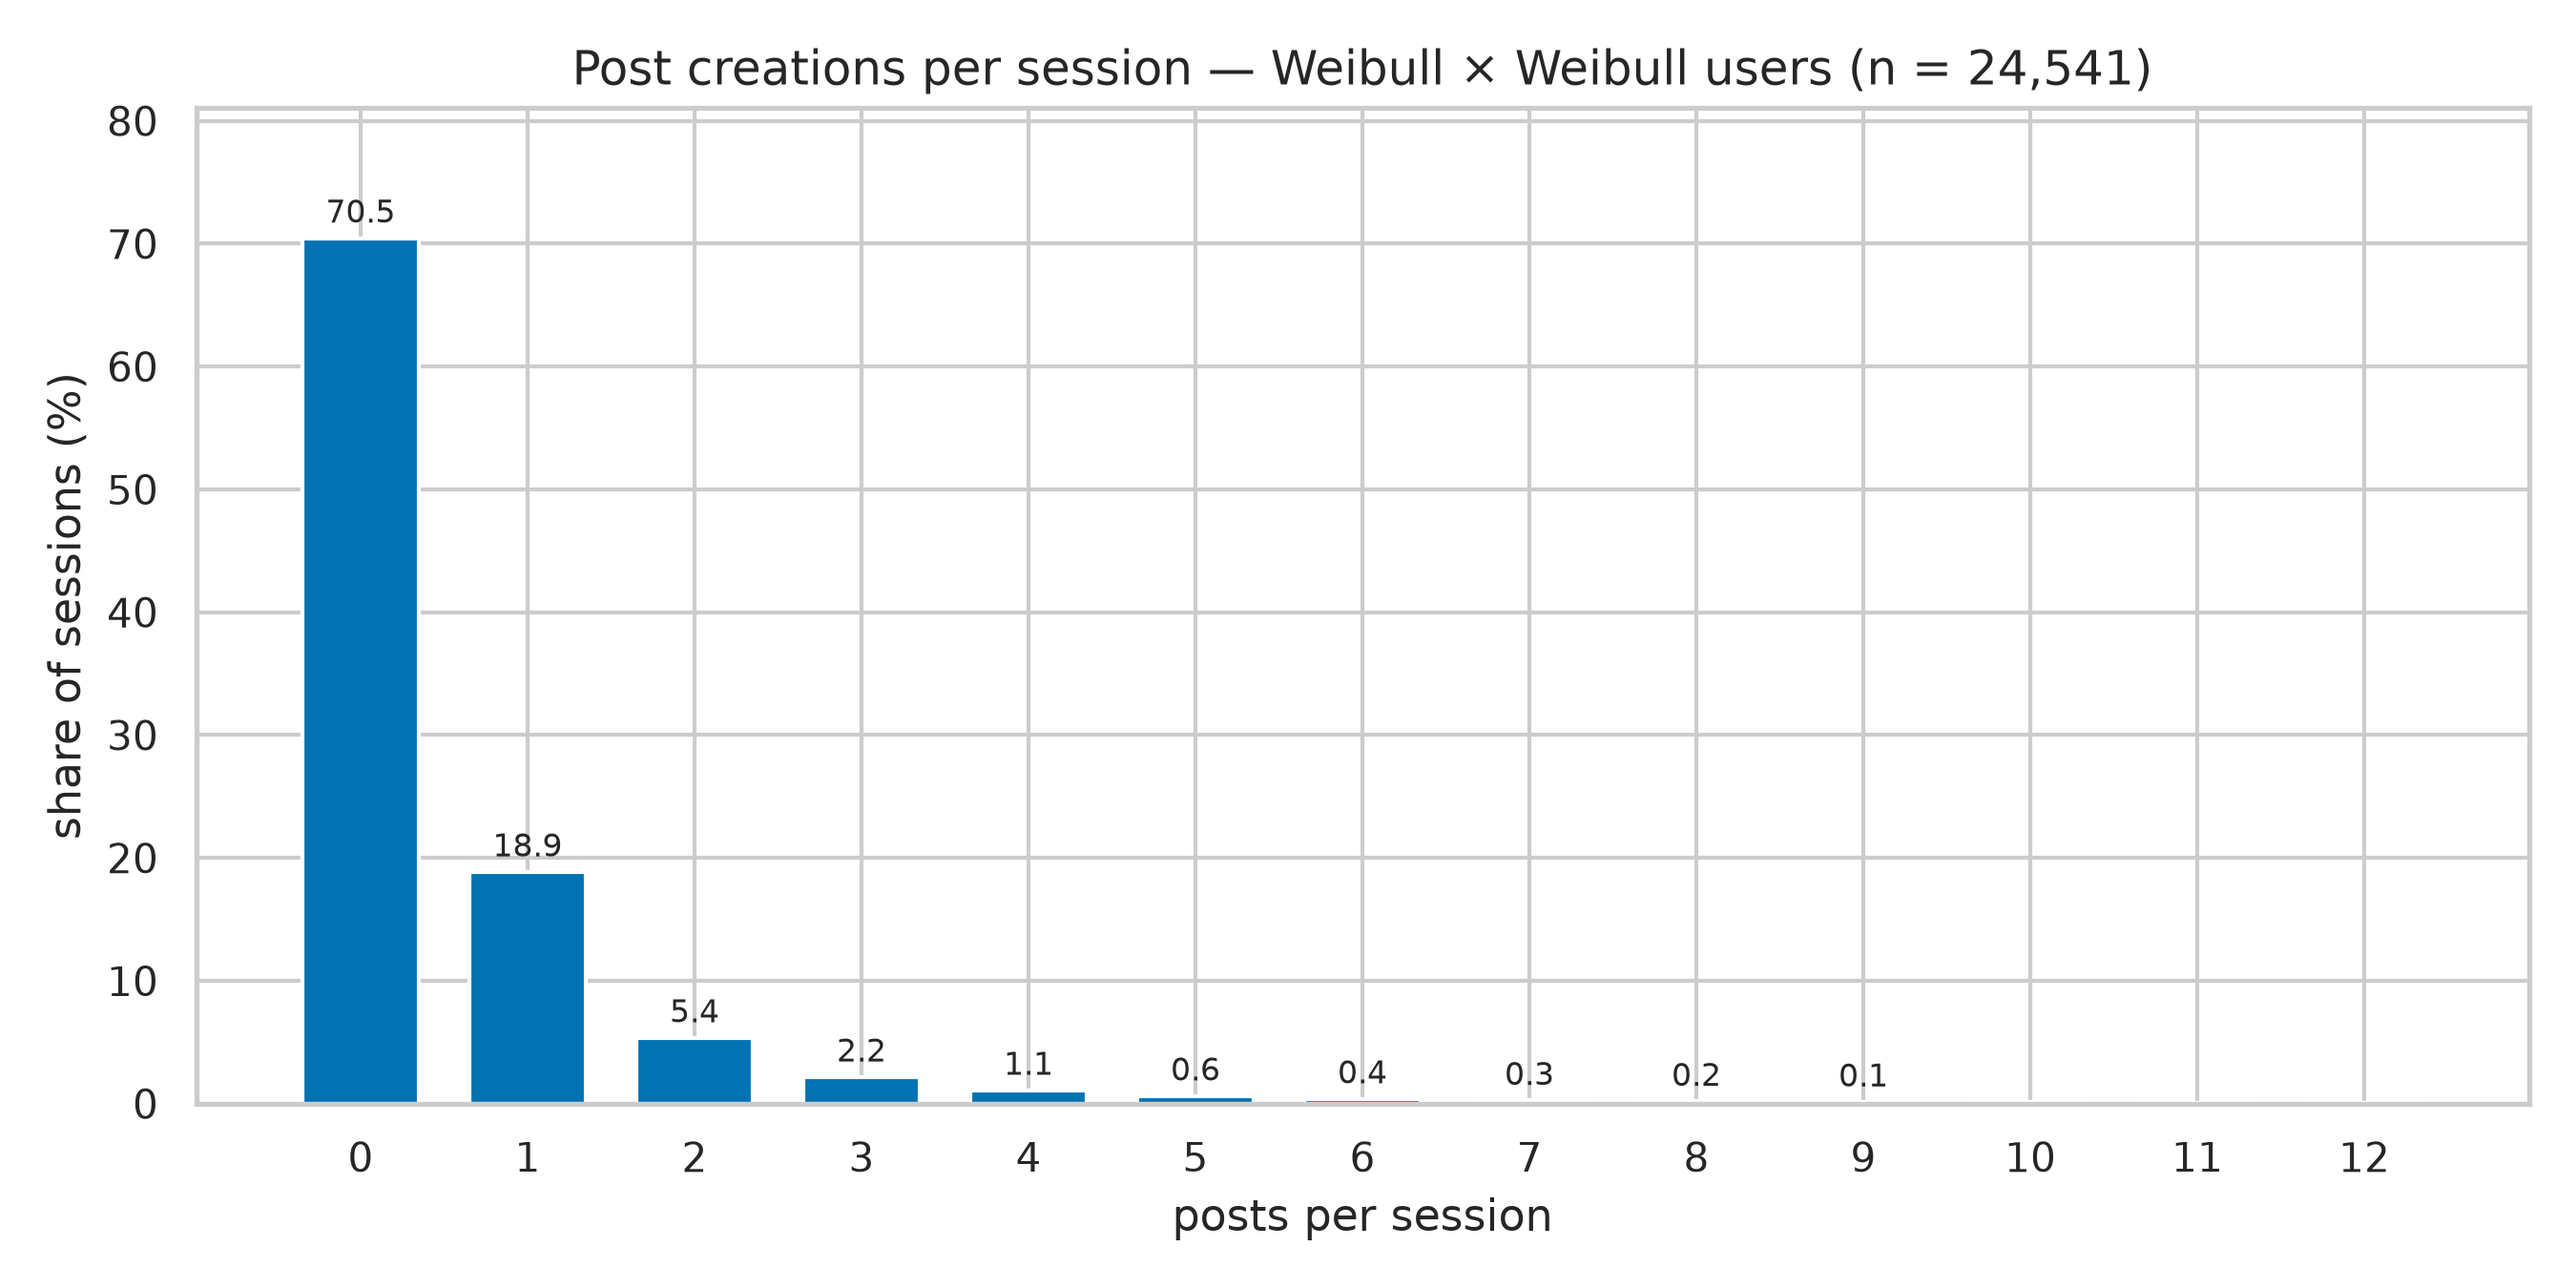
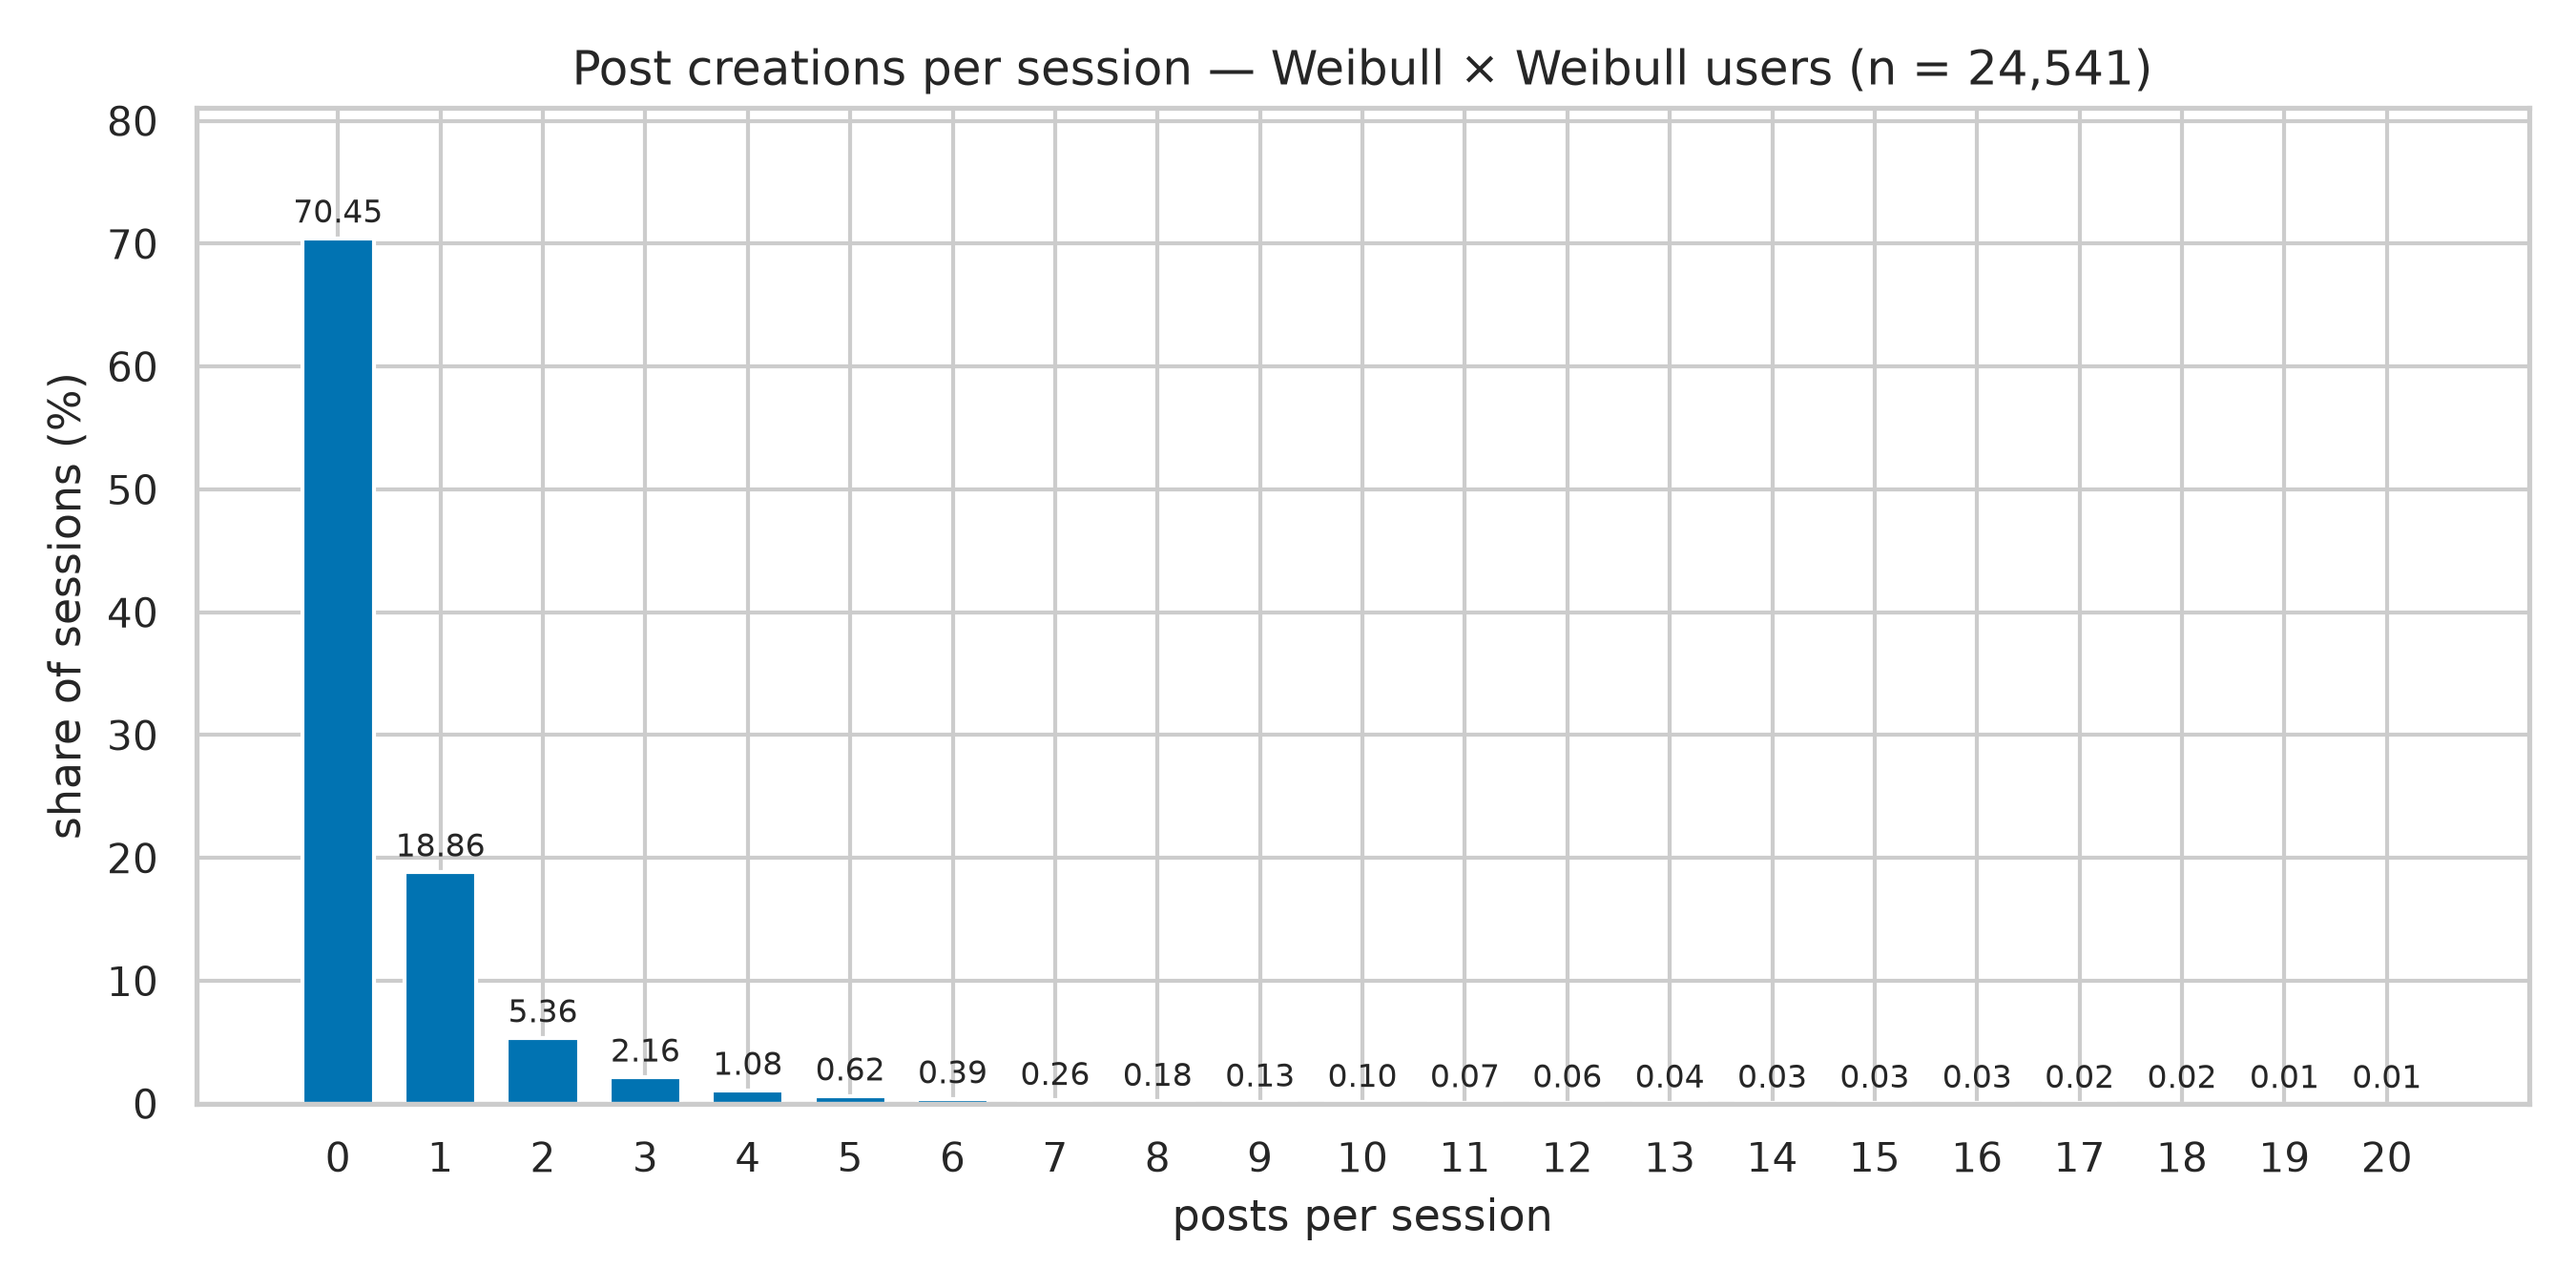
Posts-per-session: label all bars (2dp), floor 0.01%, no pooled category

diff --git a/sessions/inter-post-creation/posts_per_session_by_pair.py b/sessions/inter-post-creation/posts_per_session_by_pair.py
@@ -28,7 +28,7 @@ REPO_SESSIONS = HERE.parent
 WIDE = REPO_SESSIONS / "distribution-fit" / "results" / "pair_params_wide.tsv"
 SPU = HERE / "results" / "sessions_per_user.tsv"
 MIN_PAIR_SHARE = 0.01
-VISIBLE = 0.0005  # smallest bar share rendered (below = empty-looking)
+VISIBLE = 0.0001  # smallest bar share rendered (below = truly nothing)
 TAIL_MAX = 0.005  # dropped tail must stay below this
 
 # ── Thesis styling ───────────────────────────────────────────────────────
@@ -108,11 +108,9 @@ def main():
         pct = d[:K + 1] * 100
         for k in range(K + 1):
             dist_rows.append((dur, gap, n_users, k, int(dist[k]), round(pct[k], 3)))
-        dist_rows.append((dur, gap, n_users, f"{K + 1}+", int(dist[K + 1:].sum()),
-                          round(100 * tail, 3)))
 
         x = np.arange(K + 1)
-        labels = [f"{p:.1f}" if p >= 0.1 else "" for p in pct]
+        labels = [f"{p:.2f}" for p in pct]
         fig, ax = plt.subplots(figsize=(9, 4.5))
         ax.bar(x, pct, color=sns.color_palette("colorblind")[0], width=0.7)
         ax.bar_label(ax.containers[0], labels=labels, padding=2, fontsize=8)

diff --git a/sessions/inter-post-creation/posts_per_session.py b/sessions/inter-post-creation/posts_per_session.py
@@ -31,7 +31,7 @@ from _core import get_connection, _execute, TBL_PREFIX
 BATCH_DIDS = 2000
 CACHE = HERE / "results" / "posts_per_session_cache.npz"
 SPU = HERE / "results" / "sessions_per_user.tsv"
-VISIBLE = 0.0005  # smallest bar share rendered (below = empty-looking)
+VISIBLE = 0.0001  # smallest bar share rendered (below = truly nothing)
 TAIL_MAX = 0.005  # dropped tail must stay below this
 
 # ── Thesis styling ───────────────────────────────────────────────────────
@@ -117,7 +117,7 @@ def main():
 
     pct = d[:K + 1] * 100
     x = np.arange(K + 1)
-    labels = [f"{p:.1f}" if p >= 0.1 else "" for p in pct]
+    labels = [f"{p:.2f}" for p in pct]
     fig, ax = plt.subplots(figsize=(9, 4.5))
     ax.bar(x, pct, color=sns.color_palette("colorblind")[0], width=0.7)
     ax.bar_label(ax.containers[0], labels=labels, padding=2, fontsize=8)
